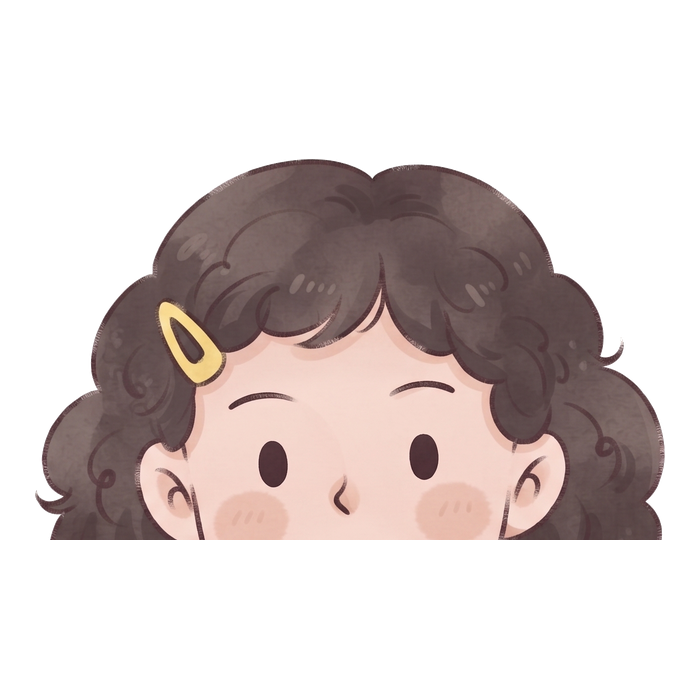
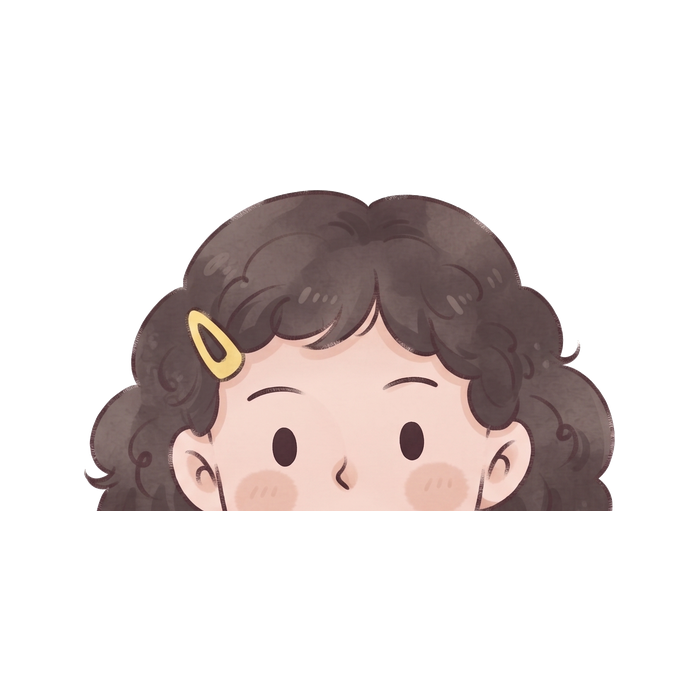
Fit dialogue heads inside the circle.
The new crops keep hair, hats, and ears inside the round avatar, and the head pictures use a new cache name.

Changed region(s): [[0.03, 0.21, 0.96, 0.78], [0.51, 0.33, 0.54, 0.36]]

diff --git a/game/clue-hunt/index.html b/game/clue-hunt/index.html
@@ -173,10 +173,10 @@
 <script>
 (function () {
   var portraits = {
-    evan: { bust: "after-school-club/art/players/evan.png?v=3", head: "after-school-club/art/players/heads/evan.png?v=4" },
-    lily: { bust: "after-school-club/art/players/lily.png?v=3", head: "after-school-club/art/players/heads/lily.png?v=4" },
-    ben: { bust: "after-school-club/art/players/ben.png?v=3", head: "after-school-club/art/players/heads/ben.png?v=4" },
-    hannah: { bust: "after-school-club/art/players/hannah.png?v=3", head: "after-school-club/art/players/heads/hannah.png?v=4" }
+    evan: { bust: "after-school-club/art/players/evan.png?v=3", head: "after-school-club/art/players/heads/evan.png?v=5" },
+    lily: { bust: "after-school-club/art/players/lily.png?v=3", head: "after-school-club/art/players/heads/lily.png?v=5" },
+    ben: { bust: "after-school-club/art/players/ben.png?v=3", head: "after-school-club/art/players/heads/ben.png?v=5" },
+    hannah: { bust: "after-school-club/art/players/hannah.png?v=3", head: "after-school-club/art/players/heads/hannah.png?v=5" }
   };
   var playerId = "";
   try {
@@ -306,7 +306,7 @@
       var portrait = portraits[playerId];
       person = { id: "you", name: "You", head: portrait.head, art: portrait.bust };
     } else if (person && person.head.indexOf("?") < 0) {
-      person = { id: person.id, name: person.name, head: person.head + "?v=4", art: person.art };
+      person = { id: person.id, name: person.name, head: person.head + "?v=5", art: person.art };
     }
     var row = document.createElement("div");
     row.className = "talk-line " + rowClass;

diff --git a/game/after-school-club/club.js b/game/after-school-club/club.js
@@ -3,10 +3,10 @@
 
   var KEY = 'asc-player-v1';
   var PLAYERS = {
-    evan: { name: 'Evan', src: 'art/players/heads/evan.png?v=4' },
-    lily: { name: 'Lily', src: 'art/players/heads/lily.png?v=4' },
-    ben: { name: 'Ben', src: 'art/players/heads/ben.png?v=4' },
-    hannah: { name: 'Hannah', src: 'art/players/heads/hannah.png?v=4' }
+    evan: { name: 'Evan', src: 'art/players/heads/evan.png?v=5' },
+    lily: { name: 'Lily', src: 'art/players/heads/lily.png?v=5' },
+    ben: { name: 'Ben', src: 'art/players/heads/ben.png?v=5' },
+    hannah: { name: 'Hannah', src: 'art/players/heads/hannah.png?v=5' }
   };
   var PLACES = { notice: true, hall: true };
 

diff --git a/game/after-school-club/index.html b/game/after-school-club/index.html
@@ -70,7 +70,7 @@
     <h2 class="sr-only">Campus map</h2>
     <div class="map-tools">
       <button type="button" class="who" id="change-character">
-        <img id="who-img" alt="" width="700" height="700" src="art/players/heads/evan.png?v=4"/>
+        <img id="who-img" alt="" width="700" height="700" src="art/players/heads/evan.png?v=5"/>
         <span><strong id="who-name">You</strong><small>Change character</small></span>
       </button>
     </div>
